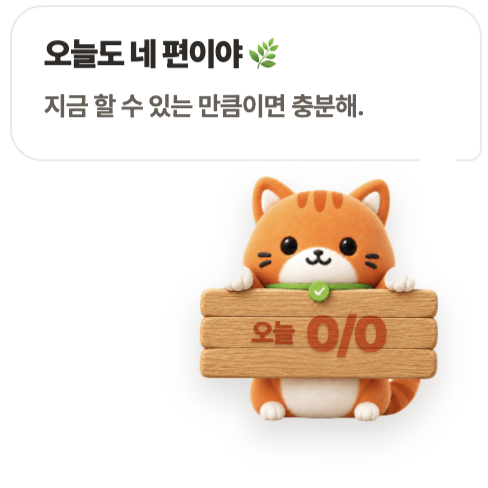
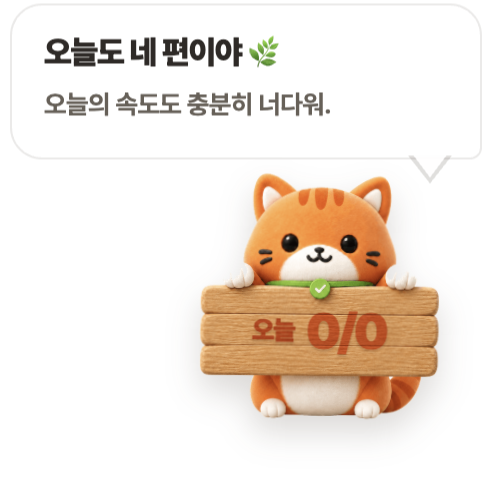
Start clean with onboarding and restore speech tail

diff --git a/app/page.tsx b/app/page.tsx
@@ -40,11 +40,6 @@ type Settings = {
 };
 
 const REASONS = ["시간이 부족했어요", "우선순위가 바뀌었어요", "생각보다 어려웠어요", "컨디션이 좋지 않았어요"];
-const DEFAULT_GOALS: Goal[] = [
-  { id: "welcome-1", title: "기획서 핵심 흐름 정리하기", done: true },
-  { id: "welcome-2", title: "프로젝트 첫 화면 만들기", done: false },
-  { id: "welcome-3", title: "30분 산책하기", done: false },
-];
 
 const dateKey = (offset = 0) => {
   const date = new Date();
@@ -95,11 +90,25 @@ const buildCompanionReflection = (done: string[], unfinished: DailyRecord["unfin
   return { headline: `오늘 ${koreanCount(done.length)} 가지나 앞으로 나아갔어.`, note: "크고 작은 일을 해낸 순간들이 모여 오늘의 발자국이 됐어. 네가 움직인 만큼을 다정하게 기억할게." };
 };
 
-const SAMPLE_RECORDS: DailyRecord[] = [
-  { date: dateKey(-3), done: ["프로젝트 회의", "알고리즘 문제 1개"], unfinished: [], note: "계획보다 적어도, 꼭 해내고 싶었던 건 다 해냈어." },
-  { date: dateKey(-2), done: ["포트폴리오 문구 다듬기", "산책 20분"], unfinished: [{ title: "책 30쪽 읽기", reason: "컨디션이 좋지 않았어요", note: "퇴근 후에 너무 피곤했다.", carry: true }], note: "피곤한 날에도 나를 위한 산책은 챙겼어." },
-  { date: dateKey(-1), done: ["PR 작성하기", "운동 30분", "엄마에게 전화하기"], unfinished: [], note: "오늘 세 가지나 앞으로 나아갔어." },
-];
+const LEGACY_SAMPLE_GOAL_IDS = new Set(["welcome-1", "welcome-2", "welcome-3"]);
+const removeLegacySampleGoals = (goals: Goal[]) => goals.filter((goal) => !LEGACY_SAMPLE_GOAL_IDS.has(goal.id));
+const isLegacySampleRecord = (record: DailyRecord) => {
+  const done = record.done.join("\u0000");
+  if (record.note === "계획보다 적어도, 꼭 해내고 싶었던 건 다 해냈어.") return done === "프로젝트 회의\u0000알고리즘 문제 1개" && record.unfinished.length === 0;
+  if (record.note === "피곤한 날에도 나를 위한 산책은 챙겼어.") {
+    const [unfinished] = record.unfinished;
+    return done === "포트폴리오 문구 다듬기\u0000산책 20분"
+      && record.unfinished.length === 1
+      && unfinished.title === "책 30쪽 읽기"
+      && unfinished.reason === "컨디션이 좋지 않았어요"
+      && unfinished.note === "퇴근 후에 너무 피곤했다."
+      && unfinished.carry === true;
+  }
+  return record.note === "오늘 세 가지나 앞으로 나아갔어."
+    && done === "PR 작성하기\u0000운동 30분\u0000엄마에게 전화하기"
+    && record.unfinished.length === 0;
+};
+const removeLegacySampleRecords = (records: DailyRecord[]) => records.filter((record) => !isLegacySampleRecord(record));
 
 const MATE_OPTIONS = [
   { value: "cat", label: "고양이", description: "조용히 곁을 지켜줄게요", asset: "./mates/mate-cat-sign-3d.png" },
@@ -124,7 +133,7 @@ const goalAwareMateCheers = (goals: Goal[]) => {
     doneGoal && `“${doneGoal.title}”까지 해낸 오늘의 너, 정말 멋져.`,
   ].filter((message): message is string => Boolean(message));
 };
-const APP_VERSION = "1.18.0";
+const APP_VERSION = "1.19.0";
 const BUG_REPORT_URL = "https://github.com/noeyhoj/oneuldo/issues/new?template=bug_report.yml";
 
 const initialSettings: Settings = { morning: "09:00", evening: "18:00", cheer: "가끔", character: true, theme: "coral", animal: "cat" };
@@ -150,14 +159,14 @@ const keepTimesInOrder = (settings: Settings): Settings => {
 
 export default function Home() {
   const [view, setView] = useState<"today" | "review" | "records">("today");
-  const [goals, setGoals] = useState<Goal[]>(DEFAULT_GOALS);
-  const [records, setRecords] = useState<DailyRecord[]>(SAMPLE_RECORDS);
+  const [goals, setGoals] = useState<Goal[]>([]);
+  const [records, setRecords] = useState<DailyRecord[]>([]);
   const [newGoal, setNewGoal] = useState("");
   const [adding, setAdding] = useState(false);
   const [settingsOpen, setSettingsOpen] = useState(false);
   const [settings, setSettings] = useState<Settings>(initialSettings);
   const [message, setMessage] = useState("오늘의 속도도 충분히 너다워 🌿");
-  const [selectedDate, setSelectedDate] = useState(dateKey(-1));
+  const [selectedDate, setSelectedDate] = useState(dateKey());
   const [activeDate, setActiveDate] = useState(dateKey());
   const [hydrated, setHydrated] = useState(false);
   const [onboardingOpen, setOnboardingOpen] = useState(false);
@@ -176,27 +185,24 @@ export default function Home() {
     setDueCarryovers(due);
     if (storedGoals) {
       const parsedGoals = JSON.parse(storedGoals) as Goal[];
+      const cleanedGoals = removeLegacySampleGoals(Array.isArray(parsedGoals) ? parsedGoals : []);
+      if (cleanedGoals.length !== parsedGoals.length) localStorage.setItem("oneuldo-goals", JSON.stringify(cleanedGoals));
       if (storedGoalsDate && storedGoalsDate !== today) setGoals([]);
-      else setGoals(parsedGoals);
+      else setGoals(cleanedGoals);
     } else if (due.length) setGoals([]);
-    if (storedRecords) setRecords(JSON.parse(storedRecords));
+    if (storedRecords) {
+      const parsedRecords = JSON.parse(storedRecords) as DailyRecord[];
+      const cleanedRecords = removeLegacySampleRecords(Array.isArray(parsedRecords) ? parsedRecords : []);
+      setRecords(cleanedRecords);
+      if (cleanedRecords.length !== parsedRecords.length) localStorage.setItem("oneuldo-records", JSON.stringify(cleanedRecords));
+    }
     if (storedSettings) setSettings(keepTimesInOrder({ ...initialSettings, ...JSON.parse(storedSettings) }));
     const onboarded = localStorage.getItem("oneuldo-onboarded");
-    const hasExistingContent = [storedGoals, storedRecords].some((value) => {
-      if (!value) return false;
-      try {
-        const parsed = JSON.parse(value);
-        return Array.isArray(parsed) && parsed.length > 0;
-      }
-      catch { return false; }
-    });
-    if (!onboarded && !hasExistingContent) {
+    if (!onboarded) {
       setGoals([]);
       setRecords([]);
       setOnboardingFresh(true);
       setOnboardingOpen(true);
-    } else if (!onboarded) {
-      localStorage.setItem("oneuldo-onboarded", "1");
     }
     localStorage.setItem("oneuldo-goals-date", today);
     setActiveDate(today);
@@ -369,7 +375,7 @@ export default function Home() {
   };
 
   return (
-    <main className={`app-shell theme-${settings.theme}`}>
+    <main className={`app-shell theme-${settings.theme} ${!hydrated ? "is-hydrating" : ""} ${onboardingOpen && onboardingFresh ? "is-first-onboarding" : ""}`}>
       <header className="topbar">
         <button className="brand" type="button" onClick={() => setView("today")} aria-label="오늘도 - 네가 해낸 하루를 기억할게, 홈">
           <span className="brand-image" aria-hidden="true" />

diff --git a/app/globals.css b/app/globals.css
@@ -107,6 +107,9 @@ button:focus-visible,input:focus-visible,textarea:focus-visible { outline:3px so
 
 /* First-start guide */
 .onboarding-backdrop{position:fixed;inset:0;z-index:120;display:grid;place-items:center;padding:24px;background:radial-gradient(circle at 50% 10%,rgba(255,255,255,.72),transparent 42%),rgba(48,44,39,.38);backdrop-filter:blur(12px);--mate:#ff9870;--mate-dark:#ef8760;--mate-paw:#f88f68}
+.app-shell.is-hydrating>*{visibility:hidden}
+.app-shell.is-first-onboarding>:not(.onboarding-backdrop){visibility:hidden}
+.app-shell.is-first-onboarding .onboarding-backdrop{background:radial-gradient(circle at 50% 10%,rgba(255,255,255,.82),transparent 42%),#eee9df;backdrop-filter:none}
 .onboarding-dialog{position:relative;width:min(760px,100%);height:min(710px,calc(100vh - 48px));overflow:hidden;border:1px solid rgba(255,255,255,.72);border-radius:32px;background:linear-gradient(145deg,#fffefb,#f7f2e9);box-shadow:0 40px 120px rgba(42,36,30,.28);display:grid;grid-template-rows:auto 1fr auto}
 .onboarding-top{height:64px;padding:0 25px;display:flex;align-items:center;justify-content:space-between}.guide-progress{display:flex;gap:6px}.guide-progress i{display:block;width:22px;height:4px;border-radius:99px;background:#e2dcd2;transition:.25s}.guide-progress i.active{background:var(--peach)}.skip-guide{border:0;background:transparent;color:#999188;font-size:11px;font-weight:700;cursor:pointer;padding:9px}.skip-guide:hover{color:#4e4944}
 .guide-content{min-height:0;overflow:auto;padding:14px 58px 12px;display:grid;align-items:center;animation:guide-in .35s ease both}.guide-step{text-align:center}.guide-kicker{display:inline-flex;padding:7px 11px;border-radius:99px;background:#fff0e9;color:#e37550;font-size:10px;font-weight:850;letter-spacing:-.02em}.guide-step h1{margin:18px 0 12px;font-size:clamp(32px,4.1vw,47px);line-height:1.16;letter-spacing:-.07em}.guide-step h1 em{font-style:normal;color:var(--peach-dark)}.guide-step>p{margin:0;color:#8c857c;font-size:13px;line-height:1.7;letter-spacing:-.025em}

diff --git a/electron/mate.css b/electron/mate.css
@@ -51,7 +51,26 @@ button { font: inherit; color: inherit; -webkit-app-region: no-drag; }
   transition: opacity .24s ease, transform .24s ease, visibility 0s linear .24s;
   animation: none;
 }
-.bubble::after { content: ""; position: absolute; right: 14px; bottom: -7px; width: 14px; height: 14px; background: white; transform: rotate(45deg); border-radius: 2px; }
+.bubble::before,
+.bubble::after {
+  content: "";
+  position: absolute;
+  clip-path: polygon(0 0, 100% 0, 50% 100%);
+}
+.bubble::before {
+  right: 14px;
+  bottom: -13px;
+  width: 22px;
+  height: 14px;
+  background: rgba(67, 55, 43, .16);
+}
+.bubble::after {
+  right: 16px;
+  bottom: -10px;
+  width: 18px;
+  height: 12px;
+  background: rgba(255, 255, 255, .97);
+}
 .bubble strong { color:#2f2a26; font-size: 16px; font-weight:880; line-height:1.2; letter-spacing: -.035em; }
 .bubble span { color: #675f57; font-size: 13px; font-weight:650; line-height: 1.5; letter-spacing: -.02em; }
 

diff --git a/README.md b/README.md
@@ -29,6 +29,12 @@
 
 ## 주요 기능
 
+### 처음 시작하기
+
+- 첫 실행에서는 메인 화면보다 온보딩을 먼저 표시
+- 목표 메이트, 시작·회고 시간, 첫 목표를 차례로 설정
+- 샘플 목표나 캘린더 기록 없이 온전히 나의 하루부터 시작
+
 ### 오늘의 목표
 
 - 하루에 최대 다섯 가지 목표 기록
@@ -60,6 +66,10 @@
 - 설정의 `버그 제보하기`에서 GitHub 제보 양식으로 바로 이동
 
 ## 화면
+
+![오늘도 첫 시작 온보딩](docs/images/onboarding.png)
+
+<p align="center"><strong>샘플 데이터 없이 나의 리듬부터 고르는 첫 시작</strong></p>
 
 <table>
   <tr>
